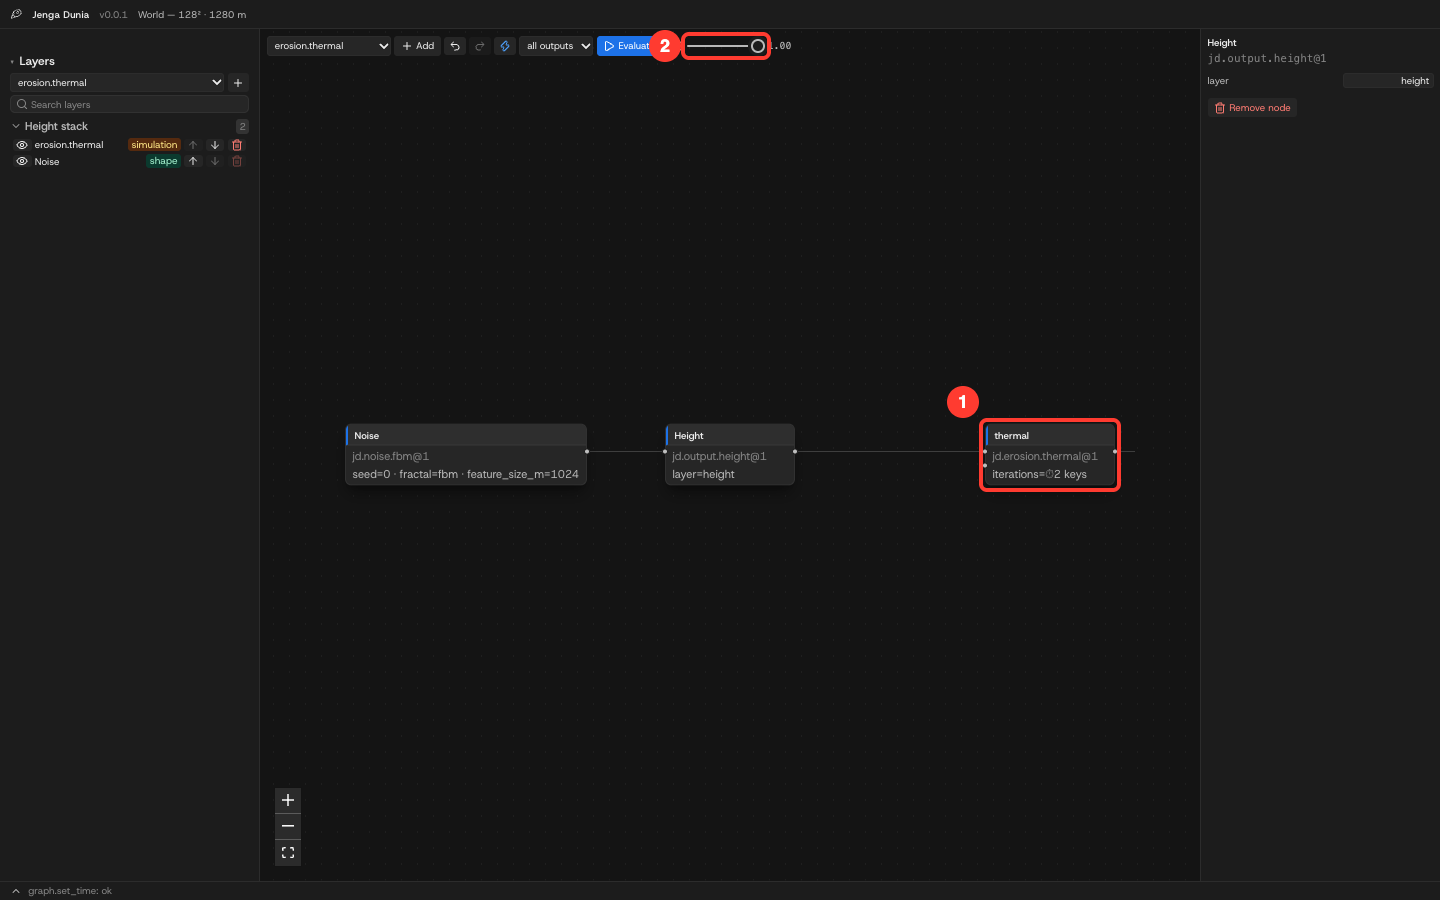
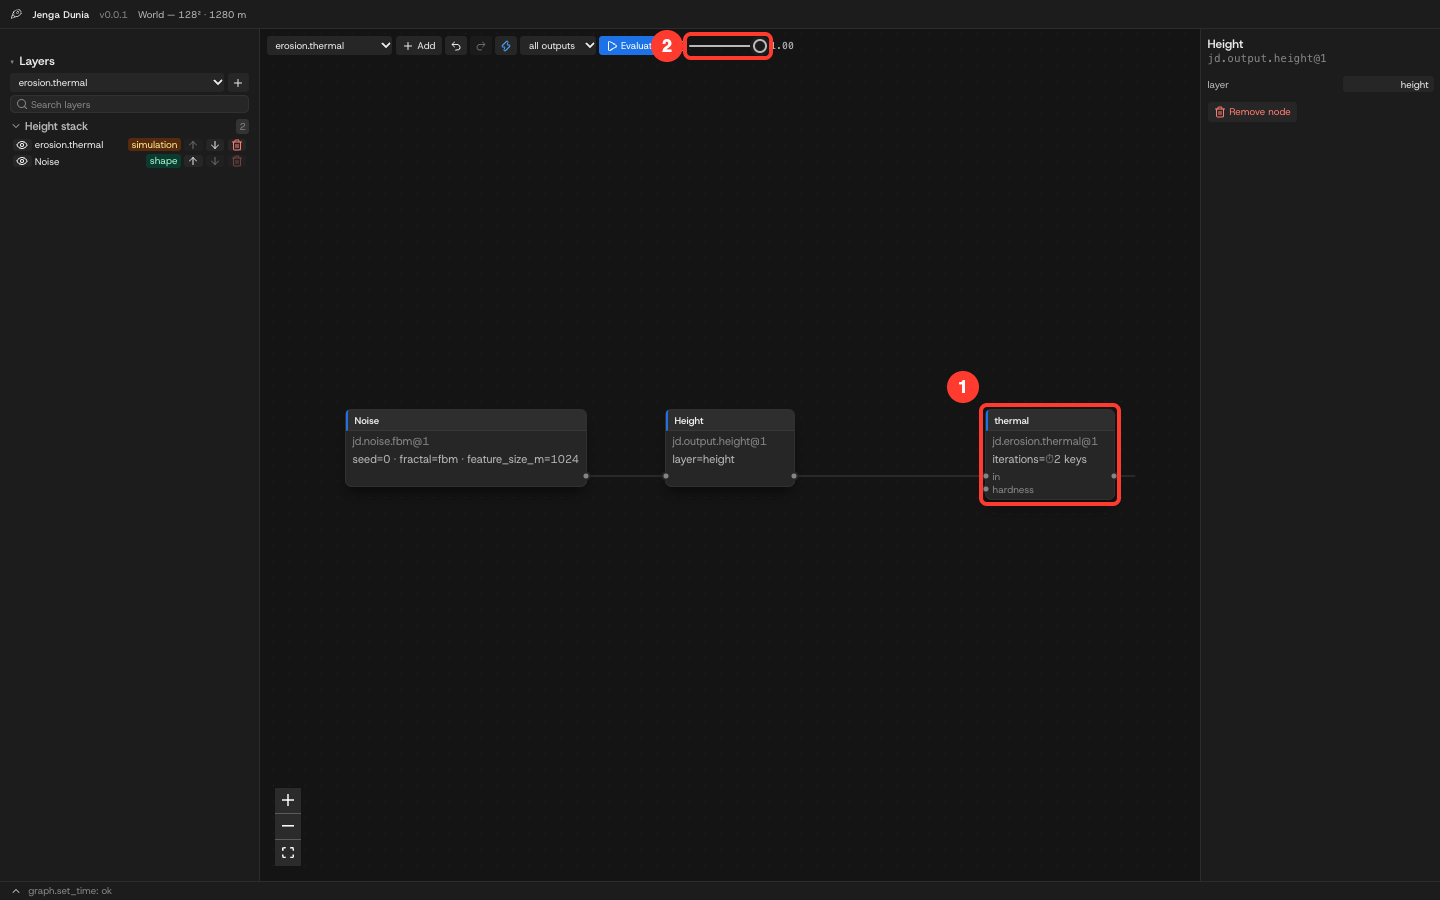
feat(editor): named ports, a visible selection and a filled inspector (plan P6 S3)
- Nodes lay their ports out as rows with a handle on each edge; a side with
  several ports names them (rivers: in / drains, out / rivers — the second
  input was an unnamed dot), a lone in / out stays a bare handle. Handles are
  9 px on a ring of the node's fill, accent while hovered or wiring, and no
  longer clipped by the card.
- A selected node has an accent border.
- The inspector's title is the node's label or short kind over the full kind
  (it printed the kind twice); rows are 28 px; inputs and selects use the new
  .jd-field — filled, borderless, 4 px corners, an accent ring on focus — as
  Studio's fields (spec 5), and so does the layer stack's kind select.
- The guide's five Editor figures re-rendered; the graph tutorial's callout 4
  points at the inspector's first parameter.

diff --git a/apps/desktop/src/graph/GraphPanel.tsx b/apps/desktop/src/graph/GraphPanel.tsx
@@ -45,22 +45,34 @@ function parseKeys(raw: string, isNum: boolean): { keys: [number, unknown][] } |
   return keys.every(([t, v]) => Number.isFinite(t) && (!isNum || Number.isFinite(v as number))) ? { keys } : null;
 }
 
-function JdNode({ data }: NodeProps<FlowNode<JdNodeData>>) {
+/** A kind as the layer stack names it: `jd.filter.blur@1` → `filter.blur`. */
+const shortKind = (kind: string) => kind.split(".").slice(1).join(".").replace(/@\d+$/, "");
+
+function JdNode({ data, selected }: NodeProps<FlowNode<JdNodeData>>) {
   const summary = Object.entries(data.params)
     .slice(0, 3)
     .map(([k, v]) => `${k}=${Array.isArray(v) ? (v.some((x) => typeof x === "object" && x !== null) ? `${v.length} recorded` : v.join("…")) : keysOf(v) ? `⏱${keysOf(v)!.length} keys` : String(v)}`)
     .join(" · ");
   return (
-    <div className="min-w-40 overflow-hidden rounded-lg border border-white/5 bg-jd-bg-2 text-xs text-jd-fg-0 shadow-lg shadow-black/40">
-      <div className="border-b border-white/5 border-l-2 border-l-jd-primary bg-jd-bg-3/60 px-2 py-1 font-semibold">{data.label}</div>
+    <div className={`min-w-40 rounded-lg border ${selected ? "border-jd-accent" : "border-white/5"} bg-jd-bg-2 text-xs text-jd-fg-0 shadow-lg shadow-black/40`}>
+      <div className="rounded-tl-[3px] rounded-tr-lg border-b border-white/5 border-l-2 border-l-jd-primary bg-jd-bg-3/60 px-2 py-1 font-semibold">{data.label}</div>
       <div className="px-2 py-1 text-[11px] text-jd-fg-2">{data.kind}</div>
       {summary && <div className="truncate px-2 pb-1 text-[11px] text-jd-fg-1">{summary}</div>}
-      {data.inputs.map((p, i) => (
-        <Handle key={p} id={p} type="target" position={Position.Left} style={{ top: 28 + i * 14 }} title={p} />
-      ))}
-      {data.outputs.map((p, i) => (
-        <Handle key={p} id={p} type="source" position={Position.Right} style={{ top: 28 + i * 14 }} title={p} />
-      ))}
+      {/* One row per port pair, its handles on the row's edges; a side with several ports names
+          them (rivers: out, rivers, …), a lone `in` / `out` stays a bare handle. */}
+      <div className="pb-1">
+        {Array.from({ length: Math.max(data.inputs.length, data.outputs.length) }, (_, i) => {
+          const [inp, out] = [data.inputs[i], data.outputs[i]];
+          return (
+            <div key={i} className="relative flex h-4 items-center justify-between px-2 text-[10px] text-jd-fg-2">
+              <span>{inp && data.inputs.length > 1 ? inp : ""}</span>
+              <span>{out && data.outputs.length > 1 ? out : ""}</span>
+              {inp && <Handle id={inp} type="target" position={Position.Left} title={inp} />}
+              {out && <Handle id={out} type="source" position={Position.Right} title={out} />}
+            </div>
+          );
+        })}
+      </div>
     </div>
   );
 }
@@ -149,7 +161,7 @@ function StructuredEditor({ columns, rows, testId, onChange }: { columns: Record
           {Object.entries(columns).map(([k, c]) => (
             <label key={k} className="flex items-center justify-between gap-2 py-0.5" title={c.description}>
               <span className="text-jd-fg-1">{k}</span>
-              <input className="w-28 rounded border border-jd-line bg-jd-bg-2 px-1 text-xs" defaultValue={fmt(row[k], c)} placeholder={c.kind === "range2" ? "min,max" : ""} onBlur={(e) => { if (e.target.value !== fmt(row[k], c)) set(i, k, e.target.value, c); }} data-testid={`${testId}-${i}-${k}`} />
+              <input className="w-28 jd-field" defaultValue={fmt(row[k], c)} placeholder={c.kind === "range2" ? "min,max" : ""} onBlur={(e) => { if (e.target.value !== fmt(row[k], c)) set(i, k, e.target.value, c); }} data-testid={`${testId}-${i}-${k}`} />
             </label>
           ))}
         </div>
@@ -365,10 +377,10 @@ function Inner() {
           </div>
         )}
         <div className="absolute top-2 left-2 flex items-center gap-1">
-          <select className="rounded border border-jd-line bg-jd-bg-2 px-1 py-0.5 text-xs" value={newKind} onChange={(e) => setNewKind(e.target.value)} data-testid="graph-kind">
+          <select className="jd-field" value={newKind} onChange={(e) => setNewKind(e.target.value)} data-testid="graph-kind">
             {s.graphKinds.map((k) => (
               <option key={k.kind} value={k.kind} title={k.kind}>
-                {k.kind.split(".").slice(1).join(".").replace(/@\d+$/, "")}
+                {shortKind(k.kind)}
               </option>
             ))}
           </select>
@@ -385,7 +397,7 @@ function Inner() {
             {s.live ? <Zap size={12} /> : <ZapOff size={12} />}
           </button>
           <select
-            className="rounded border border-jd-line bg-jd-bg-2 px-1 py-0.5 text-xs"
+            className="jd-field"
             title="Evaluate only this output and what feeds it (the gate pattern: erode a coarse chain at the preview lod, then read it back with jd.input.layer in the fine chain)"
             value={s.evalOutput ?? ""}
             onChange={(e) => s.setEvalOutput(e.target.value || null)}
@@ -417,13 +429,13 @@ function Inner() {
         {!sel && <div className="text-jd-fg-2">Select a node to edit its parameters. Drag from an output handle to an input to connect.</div>}
         {sel && (
           <>
-            <div className="mb-1 font-semibold">{sel.ui?.label ?? sel.kind}</div>
+            <div className="text-[12px] font-semibold text-jd-fg-0">{sel.ui?.label ?? shortKind(sel.kind)}</div>
             <div className="mb-2 font-mono text-[11px] text-jd-fg-2">{sel.kind}</div>
             {PRESETS[sel.kind] && (
-              <label className="mb-2 flex items-center justify-between gap-2" title="A named set of parameters for this kind; each value is one journaled edit">
+              <label className="flex min-h-7 items-center justify-between gap-2" title="A named set of parameters for this kind; each value is one journaled edit">
                 <span className="text-jd-fg-1">preset</span>
                 <select
-                  className="w-28 rounded border border-jd-line bg-jd-bg-2 px-1 text-xs"
+                  className="w-28 jd-field"
                   value=""
                   onChange={(e) => {
                     const pr = PRESETS[sel.kind]?.find((x) => x.name === e.target.value);
@@ -449,7 +461,7 @@ function Inner() {
               // f32 params arrive as f64 (0.55 → 0.550000011920929); show 7 significant digits.
               const show = (v: unknown): string => (Array.isArray(v) ? v.map(show).join(",") : typeof v === "number" ? String(Number(v.toPrecision(7))) : String(v));
               return (
-                <label key={key} className={`mb-1 flex gap-2 ${prop.structured && prop.items ? "flex-col items-stretch" : "items-center justify-between"}`} title={prop.description}>
+                <label key={key} className={`flex min-h-7 gap-2 ${prop.structured && prop.items ? "flex-col items-stretch py-1" : "items-center justify-between"}`} title={prop.description}>
                   <span className="text-jd-fg-1">{key}</span>
                   {prop.structured && prop.items ? (
                     <StructuredEditor
@@ -463,14 +475,14 @@ function Inner() {
                       {Array.isArray(current) ? `${current.length} ${prop.nested ? "points" : "recorded"}` : "none"}
                     </span>
                   ) : prop.enum ? (
-                    <select className="w-28 rounded border border-jd-line bg-jd-bg-2 px-1 text-xs" value={String(current ?? prop.default ?? prop.enum[0])} onChange={(e) => void s.setParam(sel.id, key, e.target.value)}>
+                    <select className="w-28 jd-field" value={String(current ?? prop.default ?? prop.enum[0])} onChange={(e) => void s.setParam(sel.id, key, e.target.value)}>
                       {prop.enum.map((v) => (
                         <option key={v}>{v}</option>
                       ))}
                     </select>
                   ) : (
                     <input
-                      className={`w-28 rounded border border-jd-line bg-jd-bg-2 px-1 text-right text-xs ${keysOf(current) ? "text-jd-accent" : ""}`}
+                      className={`w-28 jd-field text-right ${keysOf(current) ? "text-jd-accent" : ""}`}
                       defaultValue={current === undefined ? "" : keysOf(current) ? keysText(keysOf(current)!) : show(current)}
                       placeholder={prop.default === undefined ? "" : show(prop.default)}
                       title={`${prop.description ?? ""}\nKeyframes: t:v, t:v (0:1, 1:300) resolve at the timeline position`.trim()}

diff --git a/apps/desktop/src/index.css b/apps/desktop/src/index.css
@@ -125,6 +125,11 @@ input[type="range"] {
   .btn {
     @apply inline-flex items-center gap-1 rounded bg-jd-bg-2 px-2 py-1 text-xs text-jd-fg-0 transition-colors hover:bg-jd-bg-3 focus-visible:outline-1 focus-visible:outline-jd-accent disabled:cursor-not-allowed disabled:opacity-40;
   }
+  /* Inputs and selects: filled, no border, 4 px corners, an accent ring on focus (plan P6 spec 5,
+     as Studio's text fields). */
+  .jd-field {
+    @apply rounded bg-jd-bg-2 px-1.5 py-0.5 text-xs text-jd-fg-0 outline-none placeholder:text-jd-fg-2 focus:ring-1 focus:ring-jd-accent;
+  }
   /* The main action of a group: filled blue (World Creator's "Fit to Terrain"). */
   .btn-primary {
     @apply bg-jd-primary text-white hover:bg-jd-primary hover:brightness-110;
@@ -141,4 +146,18 @@ input[type="range"] {
     content: "▾";
     @apply text-[10px] text-jd-fg-2;
   }
+}
+
+/* Graph ports: 9 px dots on a ring of the node's fill, accent while hovered or wiring (xyflow's
+   6 px dots were hard to hit). */
+.react-flow__handle {
+  width: 9px;
+  height: 9px;
+  background: var(--color-jd-fg-2);
+  border: 2px solid var(--color-jd-bg-2);
+}
+.react-flow__handle:hover,
+.react-flow__handle.connectingfrom,
+.react-flow__handle.connectingto {
+  background: var(--color-jd-accent);
 }

diff --git a/apps/desktop/src/graph/LayerStack.tsx b/apps/desktop/src/graph/LayerStack.tsx
@@ -99,7 +99,7 @@ export default function LayerStack() {
     <section data-testid="layer-stack">
       <h2 className="mt-4 mb-1 jd-section">Layers</h2>
       <div className="mb-1 flex gap-1">
-        <select className="min-w-0 flex-1 rounded border border-jd-line bg-jd-bg-2 px-1 text-xs text-jd-fg-0" value={kind} onChange={(e) => setKind(e.target.value)} title="Node kind to add on top of the stack (in front of the height output)" data-testid="layer-add-kind">
+        <select className="min-w-0 flex-1 jd-field" value={kind} onChange={(e) => setKind(e.target.value)} title="Node kind to add on top of the stack (in front of the height output)" data-testid="layer-add-kind">
           {s.graphKinds
             // Chain kinds that need no settings to be added (a shape, an action, a pattern's kind… have their own tools).
             .filter((k) => k.inputs.some((p) => p.name === "in") && k.outputs.some((p) => p.name === "out") && !((k.param_schema as { required?: string[] } | null)?.required?.length))

diff --git a/apps/desktop/e2e/graph.spec.ts b/apps/desktop/e2e/graph.spec.ts
@@ -102,7 +102,7 @@ test.describe("node graph editor against the real core", () => {
     await blur.click();
     await expect(blur).toHaveClass(/selected/); // the key goes to the selected node; under load the click lands late
     // The guide's figure: the kinds list and Add, Evaluate, the wired blur node, its inspector.
-    await figure(page, testInfo, "tutorial-03-graph", [page.getByTestId("graph-kind"), page.getByTestId("graph-evaluate"), blur, page.getByTestId("graph-inspector")]);
+    await figure(page, testInfo, "tutorial-03-graph", [page.getByTestId("graph-kind"), page.getByTestId("graph-evaluate"), blur, page.getByTestId("graph-inspector").locator("label").first()]);
     await blur.press("Delete");
     await expect(panel.locator(".react-flow__node")).toHaveCount(2);
     await expect(panel.locator(".react-flow__edge")).toHaveCount(1);
